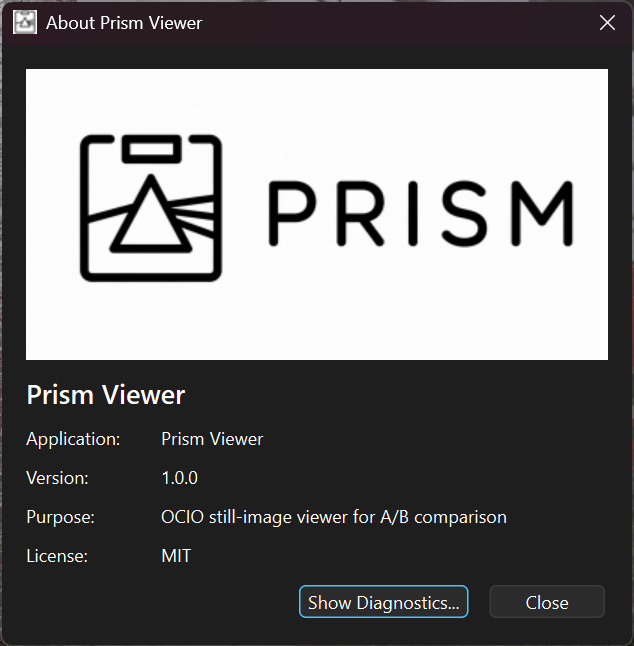
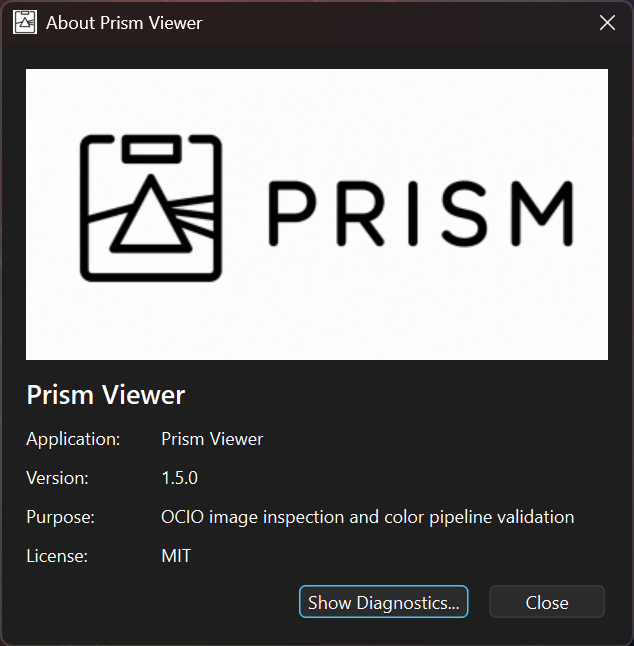
Update screenshots in README

diff --git a/README.md b/README.md
@@ -63,6 +63,7 @@ Prism aims to make that process faster and more direct.
 * Edit OCIO context variables live
 * Inspect LUT transfer curves in a dedicated modeless LUT window
 * Inspect waveform scopes in a dedicated modeless waveform monitor
+* Inspect vectorscope chroma in a dedicated modeless monitor
 * Inspect CIE xy chromaticity and RGB gamut fit in a dedicated modeless monitor
 * Navigate synchronized A/B views
 * Toggle transform bypass per image
@@ -94,7 +95,7 @@ A prebuilt Windows desktop build is available from the GitHub Releases page.
 Download:
 
 ```text
-Prism-1.2.2-windows-x64.zip
+Prism-1.5.0-windows-x64.zip
 ```
 
 Extract the zip, then run:
@@ -285,7 +286,8 @@ Useful when image edges become difficult to read against the viewer background.
 
 Open from:
 
-* `View -> LUT Inspection` or `Drop LUT in main_window`
+* `View -> LUT Inspection`
+* drag-and-drop a LUT file into the main window
 
 ![LUT_inspector_default.png](docs/images/readme/LUT_inspector_default.png)
 
@@ -411,11 +413,63 @@ Behavior:
 
 ---
 
+# Vectorscope
+
+Open from:
+
+* `View -> Monitoring -> Vectorscope`
+
+![prism_monitoring_vectorscope_selection.png](docs/images/readme/prism_monitoring_vectorscope_selection.png)
+![prism_vectorscope_default_ui.png](docs/images/readme/prism_vectorscope_default_ui.png)
+
+Behavior:
+
+* opens as a modeless utility window
+* inspects each side's float RGB analysis buffer:
+  * post-OCIO output when a transform is active
+  * loaded source data when transform setup is incomplete or bypassed
+  * before global exposure/luminance and channel-view presentation controls
+* source modes mirror main viewer compare naming:
+  * `Full (A)`
+  * `Full (B)`
+  * `Split`
+* source mode is synchronized with main compare mode for supported modes:
+  * changing mode in vectorscope updates main viewer mode
+  * changing main viewer mode updates vectorscope mode
+  * opening vectorscope initializes from current main mode
+* `Wipe` and `Diff` are currently unsupported in vectorscope mode mapping:
+  * vectorscope shows blank graphs with an explicit unsupported-mode message
+* `Standard` can be set to `BT.709` or `BT.2020` for encoded component-chroma
+  target positions:
+  * defaults to `BT.709`
+  * the standard is selected explicitly and is not inferred from OCIO names
+* `Color` defaults to `Normal` and can be set to:
+  * `Teal`
+  * `Normal`
+  * `Boosted`
+* `Normal` and `Boosted` only change how source-color density is rendered for
+  readability; component-chroma analysis and target positions are unchanged
+* applies a small SciPy Gaussian filter to rendering copies for trace
+  readability; raw vectorscope density data remains unchanged
+* supports drag-and-drop image loading directly from vectorscope:
+  * `Full (A)` drops load side `A`
+  * `Full (B)` drops load side `B`
+  * `Split` drops route by pane (`left -> A`, `right -> B`)
+  * dropped images are loaded into the main viewer, so vectorscope and viewer
+    state remain synchronized
+
+![prism_vectorscope_monitor.png](docs/images/readme/prism_vectorscope_monitor.png)
+
+---
+
 # CIE xy Chromaticity Monitor
 
 Open from:
 
 * `View -> Monitoring -> CIE xy Chromaticity`
+
+![prism_monitoring_cie_xy_selection.png](docs/images/readme/prism_monitoring_cie_xy_selection.png)
+![prism_cie_xy_default_ui.png](docs/images/readme/prism_cie_xy_default_ui.png)
 
 Behavior:
 
@@ -438,6 +492,8 @@ Behavior:
   interpretation; there is no separate input-colorspace control in the monitor
 * three global gamut overlay controls draw reference RGB triangles:
   * each can be set to `None`
+  * available Colour Science RGB spaces are listed alphabetically
+  * default overlays are `sRGB`, `ACEScg`, and `ARRI Wide Gamut 4`
   * duplicate overlay selections are drawn once
   * selected overlays appear on A, B, and both panes in `Split`
   * overlays do not change image point computation
@@ -455,6 +511,8 @@ Behavior:
   * `Split` drops route by pane (`left -> A`, `right -> B`)
   * dropped images are loaded into the main viewer, so monitor and viewer state
     remain synchronized
+
+![prism_cie_xy_monitor.png](docs/images/readme/prism_cie_xy_monitor.png)
 
 ---
 
@@ -553,14 +611,14 @@ Useful for:
 
 Prism includes sample files to validate setup quickly:
 
-* Sample images: `samples/images/`
+* Sample images: `samples/media/still/`
 * Sample OCIO config: `samples/ocio_config/`
-* Sample LUTs: `sample/LUTs`
+* Sample LUTs: `samples/LUTs/`
 
 Quick smoke test:
 
 1. Launch `prism`
-2. Load image A and B from `samples/images/`
+2. Load image A and B from `samples/media/still/`
 3. Load config from `samples/ocio_config/`
 4. Switch between `Split`, `Wipe`, `Full (A)`, `Full (B)`, and `Diff`
 
